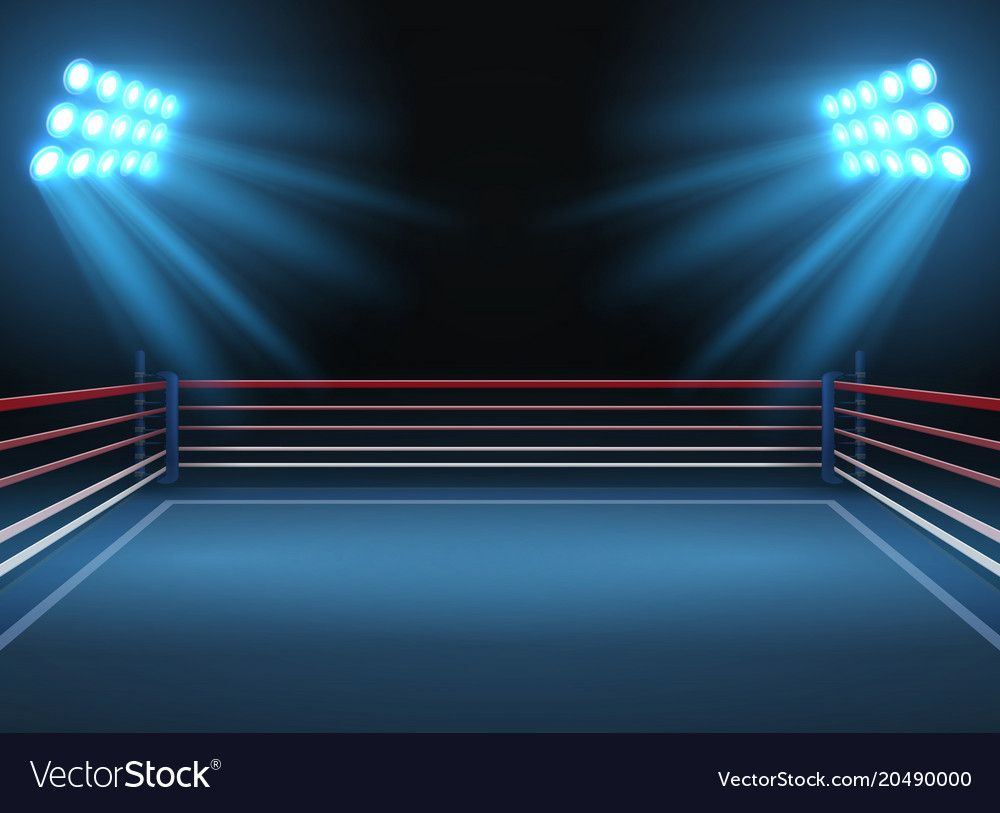
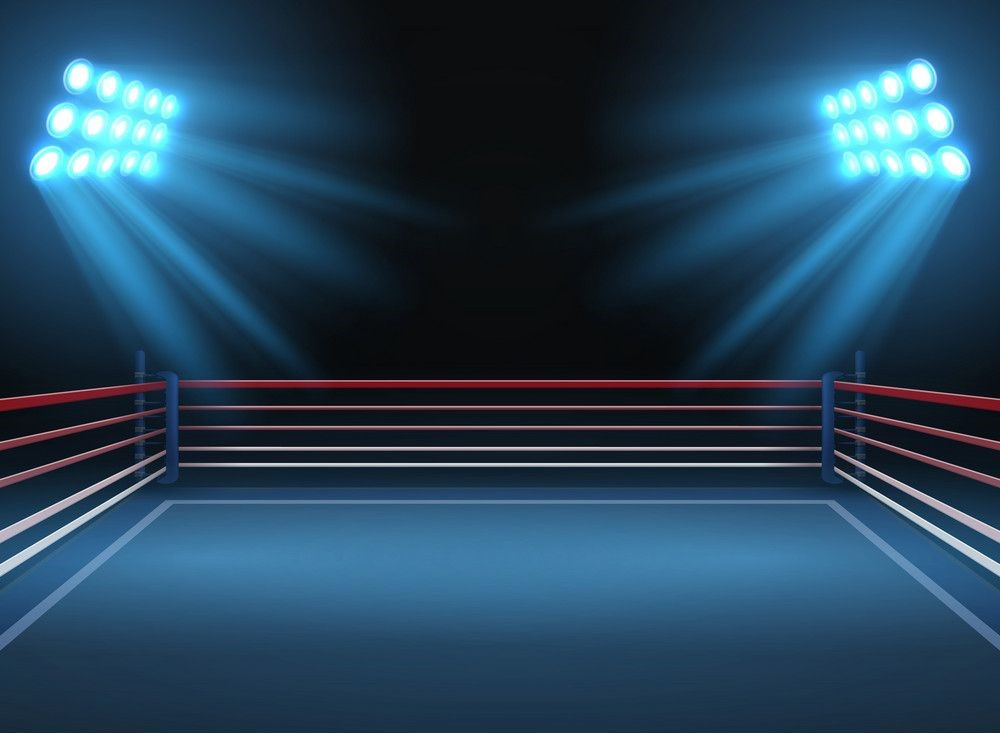
styling

diff --git a/style.css b/style.css
@@ -7,7 +7,7 @@ body{
 main{flex-grow: 1;
   background-image: url(.//ring.jpg);
   background-size: cover;
-  background-position: center center;
+  background-position: center top;
 }
 
 img{
@@ -16,4 +16,8 @@ img{
   height: 80%;
   width: 55%;
   border-radius: 50%;
+}
+
+footer{
+  height: 8vh;
 }
